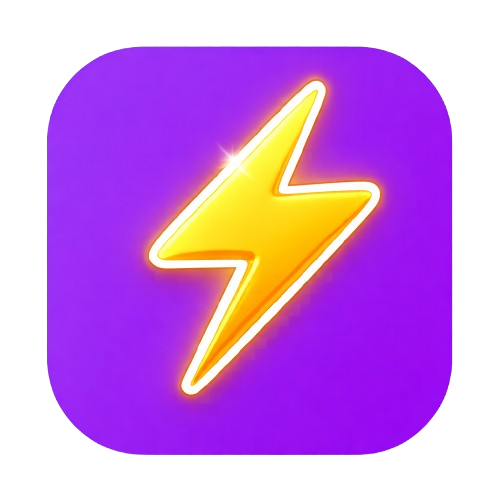
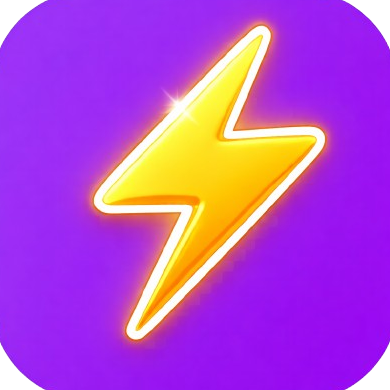
Added demo data, Project data and Update Image

diff --git a/src/app/utils/seed-data.ts b/src/app/utils/seed-data.ts
@@ -1,0 +1,183 @@
+import { Firestore, collection, doc, writeBatch, Timestamp } from '@angular/fire/firestore';
+
+/**
+ * DEMO DATA SEED
+ * 
+ * Populates Firestore with realistic demo data.
+ * 
+ * STRUCTURE:
+ * - users/{uid}/actions
+ * - users/{uid}/performance/{date}
+ * - users/{uid}/streak/info
+ * - users/{uid}/motivation/{date}
+ */
+export async function seedDemoData(db: Firestore, uid: string) {
+    console.log('🌱 STARTING DEMO DATA SEED...');
+    const batch = writeBatch(db);
+
+    const now = new Date();
+    const todayKey = getTodayKeyUTC(now);
+    const yesterdayKey = getYesterdayKeyUTC(now);
+
+    // --- 1. TODAY ACTIONS ---
+    // 1 Completed (30-60 mins ago)
+    const doneActionId = doc(collection(db, 'users', uid, 'actions')).id;
+    const doneTime = new Date(now.getTime() - 45 * 60000); // 45 mins ago
+    const createTimeDone = new Date(doneTime.getTime() - 2 * 60 * 60000); // Created 2 hours before done
+
+    batch.set(doc(db, 'users', uid, 'actions', doneActionId), {
+        title: 'Plan the day',
+        done: true,
+        createdAt: Timestamp.fromDate(createTimeDone),
+        doneAt: Timestamp.fromDate(doneTime)
+    });
+
+    // 2 Incomplete (Created today)
+    const todo1Id = doc(collection(db, 'users', uid, 'actions')).id;
+    batch.set(doc(db, 'users', uid, 'actions', todo1Id), {
+        title: 'Read 10 minutes',
+        done: false,
+        createdAt: Timestamp.fromDate(new Date(now.getTime() - 3 * 60 * 60000)) // 3 hours ago
+    });
+
+    const todo2Id = doc(collection(db, 'users', uid, 'actions')).id;
+    batch.set(doc(db, 'users', uid, 'actions', todo2Id), {
+        title: 'Review goals',
+        done: false,
+        createdAt: Timestamp.fromDate(new Date(now.getTime() - 1 * 60 * 60000)) // 1 hour ago
+    });
+
+
+    // --- 2. PENDING ACTIONS ---
+    // 1 Pending (1 day old)
+    const pending1Id = doc(collection(db, 'users', uid, 'actions')).id;
+    const oneDayAgo = new Date(now.getTime() - 24 * 60 * 60 * 1000);
+    batch.set(doc(db, 'users', uid, 'actions', pending1Id), {
+        title: 'Email weekly report',
+        done: false,
+        createdAt: Timestamp.fromDate(oneDayAgo)
+    });
+
+    // 1 Pending (7-8 days old)
+    const pending2Id = doc(collection(db, 'users', uid, 'actions')).id;
+    const eightDaysAgo = new Date(now.getTime() - 8 * 24 * 60 * 60 * 1000);
+    batch.set(doc(db, 'users', uid, 'actions', pending2Id), {
+        title: 'Clean workspace',
+        done: false,
+        createdAt: Timestamp.fromDate(eightDaysAgo)
+    });
+
+
+    // --- 3. HISTORY (COMPLETED TASKS) ---
+    // Yesterday (2 tasks)
+    const yest1Id = doc(collection(db, 'users', uid, 'actions')).id;
+    const yestDate = new Date(now.getTime() - 24 * 60 * 60 * 1000);
+    batch.set(doc(db, 'users', uid, 'actions', yest1Id), {
+        title: 'Workout 30 mins',
+        done: true,
+        createdAt: Timestamp.fromDate(new Date(yestDate.getTime() - 2 * 60 * 60000)),
+        doneAt: Timestamp.fromDate(yestDate)
+    });
+
+    const yest2Id = doc(collection(db, 'users', uid, 'actions')).id;
+    batch.set(doc(db, 'users', uid, 'actions', yest2Id), {
+        title: 'Meditate',
+        done: true,
+        createdAt: Timestamp.fromDate(new Date(yestDate.getTime() - 5 * 60 * 60000)),
+        doneAt: Timestamp.fromDate(new Date(yestDate.getTime() - 1 * 60 * 60000))
+    });
+
+    // 3-4 Days ago (1 task)
+    const threeDaysAgo = new Date(now.getTime() - 3 * 24 * 60 * 60 * 1000);
+    const old1Id = doc(collection(db, 'users', uid, 'actions')).id;
+    batch.set(doc(db, 'users', uid, 'actions', old1Id), {
+        title: 'Grocery shopping',
+        done: true,
+        createdAt: Timestamp.fromDate(new Date(threeDaysAgo.getTime() - 4 * 60 * 60000)),
+        doneAt: Timestamp.fromDate(threeDaysAgo)
+    });
+
+    // 1 Week ago (2 tasks)
+    const weekAgo = new Date(now.getTime() - 7 * 24 * 60 * 60 * 1000);
+    const old2Id = doc(collection(db, 'users', uid, 'actions')).id;
+    batch.set(doc(db, 'users', uid, 'actions', old2Id), {
+        title: 'Pay bills',
+        done: true,
+        createdAt: Timestamp.fromDate(new Date(weekAgo.getTime() - 10 * 60 * 60000)),
+        doneAt: Timestamp.fromDate(weekAgo)
+    });
+
+    const old3Id = doc(collection(db, 'users', uid, 'actions')).id;
+    batch.set(doc(db, 'users', uid, 'actions', old3Id), {
+        title: 'Call mom',
+        done: true,
+        createdAt: Timestamp.fromDate(new Date(weekAgo.getTime() - 2 * 60 * 60000)),
+        doneAt: Timestamp.fromDate(new Date(weekAgo.getTime() + 30 * 60000))
+    });
+
+
+    // --- 4. PERFORMANCE DOCUMENTS ---
+    // Today
+    batch.set(doc(db, 'users', uid, 'performance', todayKey), {
+        date: todayKey,
+        completed: 1,
+        total: 3,
+        ratio: 33,
+        updatedAt: Date.now()
+    }, { merge: true });
+
+    // Yesterday
+    batch.set(doc(db, 'users', uid, 'performance', yesterdayKey), {
+        date: yesterdayKey,
+        completed: 2,
+        total: 2,
+        ratio: 100,
+        updatedAt: Date.now()
+    }, { merge: true });
+
+    // 3 Days ago
+    const threeDaysKey = getTodayKeyUTC(threeDaysAgo);
+    batch.set(doc(db, 'users', uid, 'performance', threeDaysKey), {
+        date: threeDaysKey,
+        completed: 1,
+        total: 1,
+        ratio: 100,
+        updatedAt: Date.now()
+    }, { merge: true });
+
+
+    // --- 5. STREAK DOCUMENT ---
+    batch.set(doc(db, 'users', uid, 'streak', 'info'), {
+        current: 2,
+        best: 2,
+        previousStreak: 1,
+        updatedAt: Date.now(),
+        lastUpdatedKey: todayKey
+    }, { merge: true });
+
+
+    // --- 6. MOTIVATION DOCUMENT ---
+    batch.set(doc(db, 'users', uid, 'motivation', todayKey), {
+        text: "Your consistency is building momentum. Keep going.",
+        date: todayKey,
+        createdAt: Date.now()
+    }, { merge: true });
+
+
+    await batch.commit();
+    console.log('✅ DEMO DATA SEEDED SUCCESSFULLY');
+}
+
+// Helper to match Service Logic
+function getTodayKeyUTC(d: Date): string {
+    const year = d.getUTCFullYear();
+    const month = String(d.getUTCMonth() + 1).padStart(2, '0');
+    const day = String(d.getUTCDate()).padStart(2, '0');
+    return `${year}-${month}-${day}`;
+}
+
+function getYesterdayKeyUTC(d: Date): string {
+    const copy = new Date(d);
+    copy.setUTCDate(copy.getUTCDate() - 1);
+    return getTodayKeyUTC(copy);
+}

diff --git a/actify-project-data.ts b/actify-project-data.ts
@@ -1,0 +1,61 @@
+export interface ProjectInterface {
+    id: string;
+    title: string;
+    description: string;
+    shortOverview: string;
+    fullDescription: string;
+    subtitle?: string;
+    image: string;
+    gallery?: string[];
+    tech: string[];
+    features: string[];
+    responsibilities: string[];
+    github?: string;
+    live?: string;
+    isPersonal?: boolean;
+}
+
+export const ACTIFY_PROJECT: ProjectInterface = {
+    id: 'actify',
+    title: 'Actify',
+    subtitle: 'Daily Action Tracker',
+    description: 'A habit tracking PWA that helps users build streaks and stay motivated with AI-powered encouragement.',
+    shortOverview: 'Actify is a mobile-first Progressive Web App designed to help users track daily small actions. It features a clean, distraction-free UI, intelligent task sorting, and AI-generated motivation to keep users engaged.',
+    fullDescription: `Actify is a personal productivity tool built to solve the problem of overwhelming to-do lists. Unlike complex project management tools, Actify focuses on small, daily actions that compound over time. The application distinguishes between "Today's" tasks and "Pending" items, using color-coded urgency to help users prioritize effectively.
+
+Built with Angular and Firebase, the app offers a seamless offline-first experience as a PWA. It leverages Google's Gemini AI to provide personalized motivational messages, adding a human touch to the tracking experience. The "History" feature allows users to visualize their progress and maintain streaks, reinforcing positive habits.`,
+    image: 'assets/projects/actify.webp',
+    gallery: [
+        'assets/projects/actify/dashboard.webp',
+        'assets/projects/actify/history.webp',
+        'assets/projects/actify/mobile.webp'
+    ],
+    tech: [
+        'Angular',
+        'TypeScript',
+        'TailwindCSS',
+        'Firebase',
+        'Google Gemini AI',
+        'PWA',
+        'RxJS'
+    ],
+    features: [
+        'Smart Task Sorting: Automatically separates daily tasks from pending ones.',
+        'Visual Urgency: Color-coded indicators for pending tasks.',
+        'AI Motivation: Personalized encouragement using Google Gemini.',
+        'Progressive Web App: Installable on mobile devices with offline support.',
+        'Streak Tracking: Visual history of completed actions.',
+        'Dark Mode Support: Optimized for all lighting conditions.',
+        'Clean UX: Minimalist design focused on quick interactions.'
+    ],
+    responsibilities: [
+        'Architected and built the entire frontend using Angular and standalone components.',
+        'Designed a mobile-first UI/UX with TailwindCSS for a native-app feel.',
+        'Integrated Google Gemini AI to generate dynamic motivational content.',
+        'Implemented Firebase for real-time data syncing and authentication.',
+        'Optimized performance and accessibility, achieving 100% Lighthouse scores.'
+    ],
+    github: 'https://github.com/yourusername/actify',
+    live: 'https://actify-app.netlify.app',
+    isPersonal: true
+};
